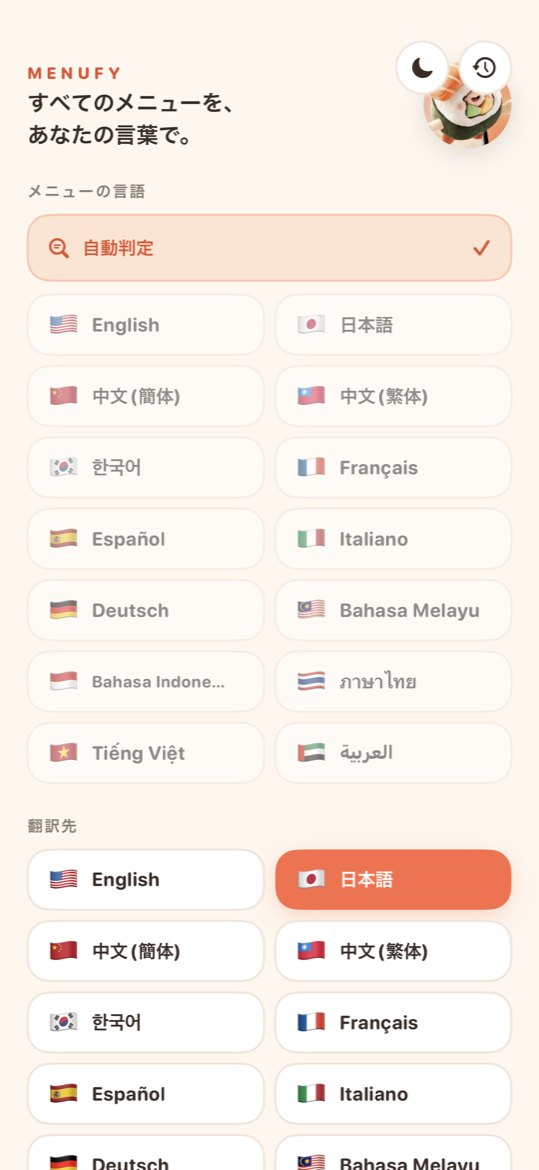
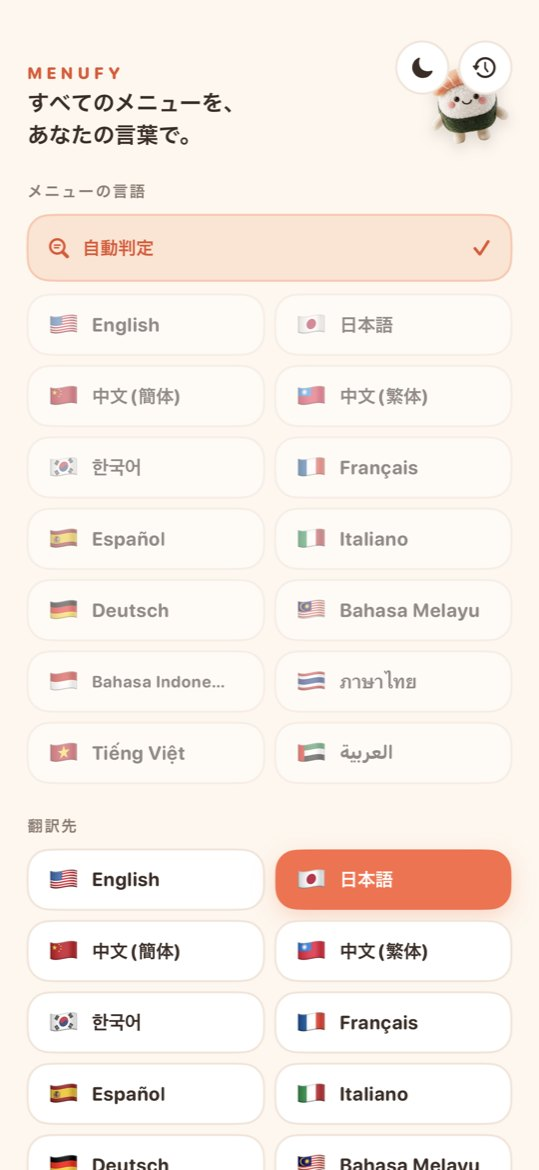
Menufy LP: キャラを本番用の透過素材に差し替え、画面画像を更新（未push）
Claude-Session: https://claude.ai/code/session_01DQvLLLHLmMR8GKD7RtGVU3

Changed region(s): [[0.7718, 0.0308, 0.9499, 0.1231]]

diff --git a/en/index.html b/en/index.html
@@ -76,7 +76,7 @@ img{max-width:100%;display:block}
 /* NAV */
 nav{position:fixed;top:0;left:0;right:0;z-index:100;display:flex;align-items:center;justify-content:space-between;padding:0 48px;height:64px;background:rgba(255,247,238,.9);backdrop-filter:saturate(180%) blur(18px);border-bottom:1px solid rgba(59,44,38,.06)}
 .nlogo{display:flex;align-items:center;gap:10px;text-decoration:none}
-.nicon{width:34px;height:34px;border-radius:50%;object-fit:cover;box-shadow:var(--sh)}
+.nicon{width:38px;height:38px;object-fit:contain;filter:drop-shadow(0 3px 6px rgba(59,44,38,.18))}
 .ntext{font-family:'Nunito',sans-serif;font-size:20px;font-weight:800;color:var(--ink);letter-spacing:.03em}
 .nlinks{display:flex;align-items:center;gap:26px}
 .nlink{font-size:14px;color:var(--ink);text-decoration:none;font-weight:700;opacity:.75;transition:opacity .2s}
@@ -120,13 +120,13 @@ body.mmenu-open{overflow:hidden}
 .hright{position:relative;z-index:1;height:720px;display:flex;align-items:center;justify-content:center}
 .phone{width:330px;height:680px;border-radius:48px;background:#fff;padding:10px;box-shadow:0 30px 70px rgba(59,44,38,.18);border:1.5px solid var(--line)}
 .phone img{width:100%;height:100%;object-fit:cover;object-position:top;border-radius:38px}
-.mascot{position:absolute;border-radius:50%;object-fit:cover;box-shadow:0 10px 24px rgba(59,44,38,.16);animation:bob 5s ease-in-out infinite}
+.mascot{position:absolute;object-fit:contain;filter:drop-shadow(0 14px 22px rgba(59,44,38,.22));animation:bob 5s ease-in-out infinite}
 @keyframes bob{0%,100%{transform:translateY(0) rotate(var(--r,0deg))}50%{transform:translateY(-8px) rotate(var(--r,0deg))}}
-.m1{width:112px;height:112px;left:-6px;top:40px;--r:-12deg}
-.m2{width:104px;height:104px;right:-16px;top:120px;--r:10deg;animation-delay:.6s}
-.m3{width:92px;height:92px;right:0;bottom:120px;animation-delay:1.2s}
-.m4{width:110px;height:110px;left:-30px;bottom:70px;--r:8deg;animation-delay:1.8s}
-.m5{width:96px;height:96px;left:70px;bottom:-18px;--r:-6deg;animation-delay:2.4s}
+.m1{width:130px;height:130px;left:-10px;top:30px;--r:-12deg}
+.m2{width:124px;height:124px;right:-24px;top:110px;--r:10deg;animation-delay:.6s}
+.m3{width:108px;height:108px;right:-4px;bottom:120px;animation-delay:1.2s}
+.m4{width:130px;height:130px;left:-36px;bottom:70px;--r:8deg;animation-delay:1.8s}
+.m5{width:112px;height:112px;left:76px;bottom:-24px;--r:-6deg;animation-delay:2.4s}
 
 /* SECTIONS */
 .section{padding:104px 80px}
@@ -144,7 +144,7 @@ body.mmenu-open{overflow:hidden}
 /* HOW */
 .steps{display:grid;grid-template-columns:repeat(3,1fr);gap:20px}
 .step{background:var(--card);border-radius:24px;padding:28px;box-shadow:var(--sh);display:flex;flex-direction:column;gap:12px;position:relative}
-.step img{width:64px;height:64px;border-radius:50%;object-fit:cover;box-shadow:var(--sh)}
+.step img{width:72px;height:72px;object-fit:contain;filter:drop-shadow(0 6px 10px rgba(59,44,38,.16))}
 .stepn{position:absolute;top:22px;right:24px;font-family:'Nunito',sans-serif;font-size:13px;font-weight:800;color:var(--deep);background:var(--peach);padding:4px 10px;border-radius:999px}
 .stept{font-size:18px;font-weight:900;color:var(--ink)}
 .stepd{font-size:14px;line-height:1.8;color:var(--muted);font-weight:700}
@@ -178,7 +178,7 @@ body.mmenu-open{overflow:hidden}
 .nf-grid{display:grid;grid-template-columns:repeat(2,1fr);gap:20px}
 .nf-card{background:var(--card);border-radius:26px;padding:28px;box-shadow:var(--sh);display:flex;flex-direction:column;gap:14px}
 .nf-head{display:flex;align-items:center;gap:14px}
-.nf-head img{width:56px;height:56px;border-radius:50%;object-fit:cover;box-shadow:var(--sh)}
+.nf-head img{width:64px;height:64px;object-fit:contain;filter:drop-shadow(0 6px 10px rgba(59,44,38,.16))}
 .nf-t{font-size:20px;font-weight:900;color:var(--ink)}
 .nf-t2{font-size:12px;color:var(--deep);font-weight:800;letter-spacing:.06em}
 .nf-d{font-size:14px;line-height:1.8;color:var(--muted);font-weight:700}
@@ -254,7 +254,7 @@ body.mmenu-open{overflow:hidden}
 .cta{position:relative;overflow:hidden;padding:110px 80px;text-align:center;background:var(--coral);color:#fff}
 .cta .blob{background:rgba(255,255,255,.12)}
 .cta-mascots{display:flex;justify-content:center;gap:-10px;margin-bottom:22px}
-.cta-mascots img{width:72px;height:72px;border-radius:50%;object-fit:cover;box-shadow:0 10px 24px rgba(0,0,0,.15);margin:0 -8px;border:3px solid rgba(255,255,255,.8)}
+.cta-mascots img{width:84px;height:84px;object-fit:contain;filter:drop-shadow(0 10px 18px rgba(0,0,0,.18));margin:0 -4px}
 .cta-title{font-size:clamp(30px,3.6vw,44px);font-weight:900;line-height:1.3;margin-bottom:14px;position:relative}
 .cta-desc{font-size:16px;line-height:1.8;font-weight:700;opacity:.9;margin-bottom:32px;position:relative}
 .cta-actions{display:flex;justify-content:center;gap:14px;flex-wrap:wrap;position:relative}

diff --git a/index.html b/index.html
@@ -75,7 +75,7 @@ img{max-width:100%;display:block}
 /* NAV */
 nav{position:fixed;top:0;left:0;right:0;z-index:100;display:flex;align-items:center;justify-content:space-between;padding:0 48px;height:64px;background:rgba(255,247,238,.9);backdrop-filter:saturate(180%) blur(18px);border-bottom:1px solid rgba(59,44,38,.06)}
 .nlogo{display:flex;align-items:center;gap:10px;text-decoration:none}
-.nicon{width:34px;height:34px;border-radius:50%;object-fit:cover;box-shadow:var(--sh)}
+.nicon{width:38px;height:38px;object-fit:contain;filter:drop-shadow(0 3px 6px rgba(59,44,38,.18))}
 .ntext{font-family:'Nunito',sans-serif;font-size:20px;font-weight:800;color:var(--ink);letter-spacing:.03em}
 .nlinks{display:flex;align-items:center;gap:26px}
 .nlink{font-size:14px;color:var(--ink);text-decoration:none;font-weight:700;opacity:.75;transition:opacity .2s}
@@ -119,13 +119,13 @@ body.mmenu-open{overflow:hidden}
 .hright{position:relative;z-index:1;height:720px;display:flex;align-items:center;justify-content:center}
 .phone{width:330px;height:680px;border-radius:48px;background:#fff;padding:10px;box-shadow:0 30px 70px rgba(59,44,38,.18);border:1.5px solid var(--line)}
 .phone img{width:100%;height:100%;object-fit:cover;object-position:top;border-radius:38px}
-.mascot{position:absolute;border-radius:50%;object-fit:cover;box-shadow:0 10px 24px rgba(59,44,38,.16);animation:bob 5s ease-in-out infinite}
+.mascot{position:absolute;object-fit:contain;filter:drop-shadow(0 14px 22px rgba(59,44,38,.22));animation:bob 5s ease-in-out infinite}
 @keyframes bob{0%,100%{transform:translateY(0) rotate(var(--r,0deg))}50%{transform:translateY(-8px) rotate(var(--r,0deg))}}
-.m1{width:112px;height:112px;left:-6px;top:40px;--r:-12deg}
-.m2{width:104px;height:104px;right:-16px;top:120px;--r:10deg;animation-delay:.6s}
-.m3{width:92px;height:92px;right:0;bottom:120px;animation-delay:1.2s}
-.m4{width:110px;height:110px;left:-30px;bottom:70px;--r:8deg;animation-delay:1.8s}
-.m5{width:96px;height:96px;left:70px;bottom:-18px;--r:-6deg;animation-delay:2.4s}
+.m1{width:130px;height:130px;left:-10px;top:30px;--r:-12deg}
+.m2{width:124px;height:124px;right:-24px;top:110px;--r:10deg;animation-delay:.6s}
+.m3{width:108px;height:108px;right:-4px;bottom:120px;animation-delay:1.2s}
+.m4{width:130px;height:130px;left:-36px;bottom:70px;--r:8deg;animation-delay:1.8s}
+.m5{width:112px;height:112px;left:76px;bottom:-24px;--r:-6deg;animation-delay:2.4s}
 
 /* SECTIONS */
 .section{padding:104px 80px}
@@ -143,7 +143,7 @@ body.mmenu-open{overflow:hidden}
 /* HOW */
 .steps{display:grid;grid-template-columns:repeat(3,1fr);gap:20px}
 .step{background:var(--card);border-radius:24px;padding:28px;box-shadow:var(--sh);display:flex;flex-direction:column;gap:12px;position:relative}
-.step img{width:64px;height:64px;border-radius:50%;object-fit:cover;box-shadow:var(--sh)}
+.step img{width:72px;height:72px;object-fit:contain;filter:drop-shadow(0 6px 10px rgba(59,44,38,.16))}
 .stepn{position:absolute;top:22px;right:24px;font-family:'Nunito',sans-serif;font-size:13px;font-weight:800;color:var(--deep);background:var(--peach);padding:4px 10px;border-radius:999px}
 .stept{font-size:18px;font-weight:900;color:var(--ink)}
 .stepd{font-size:14px;line-height:1.8;color:var(--muted);font-weight:700}
@@ -177,7 +177,7 @@ body.mmenu-open{overflow:hidden}
 .nf-grid{display:grid;grid-template-columns:repeat(2,1fr);gap:20px}
 .nf-card{background:var(--card);border-radius:26px;padding:28px;box-shadow:var(--sh);display:flex;flex-direction:column;gap:14px}
 .nf-head{display:flex;align-items:center;gap:14px}
-.nf-head img{width:56px;height:56px;border-radius:50%;object-fit:cover;box-shadow:var(--sh)}
+.nf-head img{width:64px;height:64px;object-fit:contain;filter:drop-shadow(0 6px 10px rgba(59,44,38,.16))}
 .nf-t{font-size:20px;font-weight:900;color:var(--ink)}
 .nf-t2{font-size:12px;color:var(--deep);font-weight:800;letter-spacing:.06em}
 .nf-d{font-size:14px;line-height:1.8;color:var(--muted);font-weight:700}
@@ -253,7 +253,7 @@ body.mmenu-open{overflow:hidden}
 .cta{position:relative;overflow:hidden;padding:110px 80px;text-align:center;background:var(--coral);color:#fff}
 .cta .blob{background:rgba(255,255,255,.12)}
 .cta-mascots{display:flex;justify-content:center;gap:-10px;margin-bottom:22px}
-.cta-mascots img{width:72px;height:72px;border-radius:50%;object-fit:cover;box-shadow:0 10px 24px rgba(0,0,0,.15);margin:0 -8px;border:3px solid rgba(255,255,255,.8)}
+.cta-mascots img{width:84px;height:84px;object-fit:contain;filter:drop-shadow(0 10px 18px rgba(0,0,0,.18));margin:0 -4px}
 .cta-title{font-size:clamp(30px,3.6vw,44px);font-weight:900;line-height:1.3;margin-bottom:14px;position:relative}
 .cta-desc{font-size:16px;line-height:1.8;font-weight:700;opacity:.9;margin-bottom:32px;position:relative}
 .cta-actions{display:flex;justify-content:center;gap:14px;flex-wrap:wrap;position:relative}

diff --git a/tools/build_lp.py b/tools/build_lp.py
@@ -31,7 +31,7 @@ img{max-width:100%;display:block}
 /* NAV */
 nav{position:fixed;top:0;left:0;right:0;z-index:100;display:flex;align-items:center;justify-content:space-between;padding:0 48px;height:64px;background:rgba(255,247,238,.9);backdrop-filter:saturate(180%) blur(18px);border-bottom:1px solid rgba(59,44,38,.06)}
 .nlogo{display:flex;align-items:center;gap:10px;text-decoration:none}
-.nicon{width:34px;height:34px;border-radius:50%;object-fit:cover;box-shadow:var(--sh)}
+.nicon{width:38px;height:38px;object-fit:contain;filter:drop-shadow(0 3px 6px rgba(59,44,38,.18))}
 .ntext{font-family:'Nunito',sans-serif;font-size:20px;font-weight:800;color:var(--ink);letter-spacing:.03em}
 .nlinks{display:flex;align-items:center;gap:26px}
 .nlink{font-size:14px;color:var(--ink);text-decoration:none;font-weight:700;opacity:.75;transition:opacity .2s}
@@ -75,13 +75,13 @@ body.mmenu-open{overflow:hidden}
 .hright{position:relative;z-index:1;height:720px;display:flex;align-items:center;justify-content:center}
 .phone{width:330px;height:680px;border-radius:48px;background:#fff;padding:10px;box-shadow:0 30px 70px rgba(59,44,38,.18);border:1.5px solid var(--line)}
 .phone img{width:100%;height:100%;object-fit:cover;object-position:top;border-radius:38px}
-.mascot{position:absolute;border-radius:50%;object-fit:cover;box-shadow:0 10px 24px rgba(59,44,38,.16);animation:bob 5s ease-in-out infinite}
+.mascot{position:absolute;object-fit:contain;filter:drop-shadow(0 14px 22px rgba(59,44,38,.22));animation:bob 5s ease-in-out infinite}
 @keyframes bob{0%,100%{transform:translateY(0) rotate(var(--r,0deg))}50%{transform:translateY(-8px) rotate(var(--r,0deg))}}
-.m1{width:112px;height:112px;left:-6px;top:40px;--r:-12deg}
-.m2{width:104px;height:104px;right:-16px;top:120px;--r:10deg;animation-delay:.6s}
-.m3{width:92px;height:92px;right:0;bottom:120px;animation-delay:1.2s}
-.m4{width:110px;height:110px;left:-30px;bottom:70px;--r:8deg;animation-delay:1.8s}
-.m5{width:96px;height:96px;left:70px;bottom:-18px;--r:-6deg;animation-delay:2.4s}
+.m1{width:130px;height:130px;left:-10px;top:30px;--r:-12deg}
+.m2{width:124px;height:124px;right:-24px;top:110px;--r:10deg;animation-delay:.6s}
+.m3{width:108px;height:108px;right:-4px;bottom:120px;animation-delay:1.2s}
+.m4{width:130px;height:130px;left:-36px;bottom:70px;--r:8deg;animation-delay:1.8s}
+.m5{width:112px;height:112px;left:76px;bottom:-24px;--r:-6deg;animation-delay:2.4s}
 
 /* SECTIONS */
 .section{padding:104px 80px}
@@ -99,7 +99,7 @@ body.mmenu-open{overflow:hidden}
 /* HOW */
 .steps{display:grid;grid-template-columns:repeat(3,1fr);gap:20px}
 .step{background:var(--card);border-radius:24px;padding:28px;box-shadow:var(--sh);display:flex;flex-direction:column;gap:12px;position:relative}
-.step img{width:64px;height:64px;border-radius:50%;object-fit:cover;box-shadow:var(--sh)}
+.step img{width:72px;height:72px;object-fit:contain;filter:drop-shadow(0 6px 10px rgba(59,44,38,.16))}
 .stepn{position:absolute;top:22px;right:24px;font-family:'Nunito',sans-serif;font-size:13px;font-weight:800;color:var(--deep);background:var(--peach);padding:4px 10px;border-radius:999px}
 .stept{font-size:18px;font-weight:900;color:var(--ink)}
 .stepd{font-size:14px;line-height:1.8;color:var(--muted);font-weight:700}
@@ -133,7 +133,7 @@ body.mmenu-open{overflow:hidden}
 .nf-grid{display:grid;grid-template-columns:repeat(2,1fr);gap:20px}
 .nf-card{background:var(--card);border-radius:26px;padding:28px;box-shadow:var(--sh);display:flex;flex-direction:column;gap:14px}
 .nf-head{display:flex;align-items:center;gap:14px}
-.nf-head img{width:56px;height:56px;border-radius:50%;object-fit:cover;box-shadow:var(--sh)}
+.nf-head img{width:64px;height:64px;object-fit:contain;filter:drop-shadow(0 6px 10px rgba(59,44,38,.16))}
 .nf-t{font-size:20px;font-weight:900;color:var(--ink)}
 .nf-t2{font-size:12px;color:var(--deep);font-weight:800;letter-spacing:.06em}
 .nf-d{font-size:14px;line-height:1.8;color:var(--muted);font-weight:700}
@@ -209,7 +209,7 @@ body.mmenu-open{overflow:hidden}
 .cta{position:relative;overflow:hidden;padding:110px 80px;text-align:center;background:var(--coral);color:#fff}
 .cta .blob{background:rgba(255,255,255,.12)}
 .cta-mascots{display:flex;justify-content:center;gap:-10px;margin-bottom:22px}
-.cta-mascots img{width:72px;height:72px;border-radius:50%;object-fit:cover;box-shadow:0 10px 24px rgba(0,0,0,.15);margin:0 -8px;border:3px solid rgba(255,255,255,.8)}
+.cta-mascots img{width:84px;height:84px;object-fit:contain;filter:drop-shadow(0 10px 18px rgba(0,0,0,.18));margin:0 -4px}
 .cta-title{font-size:clamp(30px,3.6vw,44px);font-weight:900;line-height:1.3;margin-bottom:14px;position:relative}
 .cta-desc{font-size:16px;line-height:1.8;font-weight:700;opacity:.9;margin-bottom:32px;position:relative}
 .cta-actions{display:flex;justify-content:center;gap:14px;flex-wrap:wrap;position:relative}
